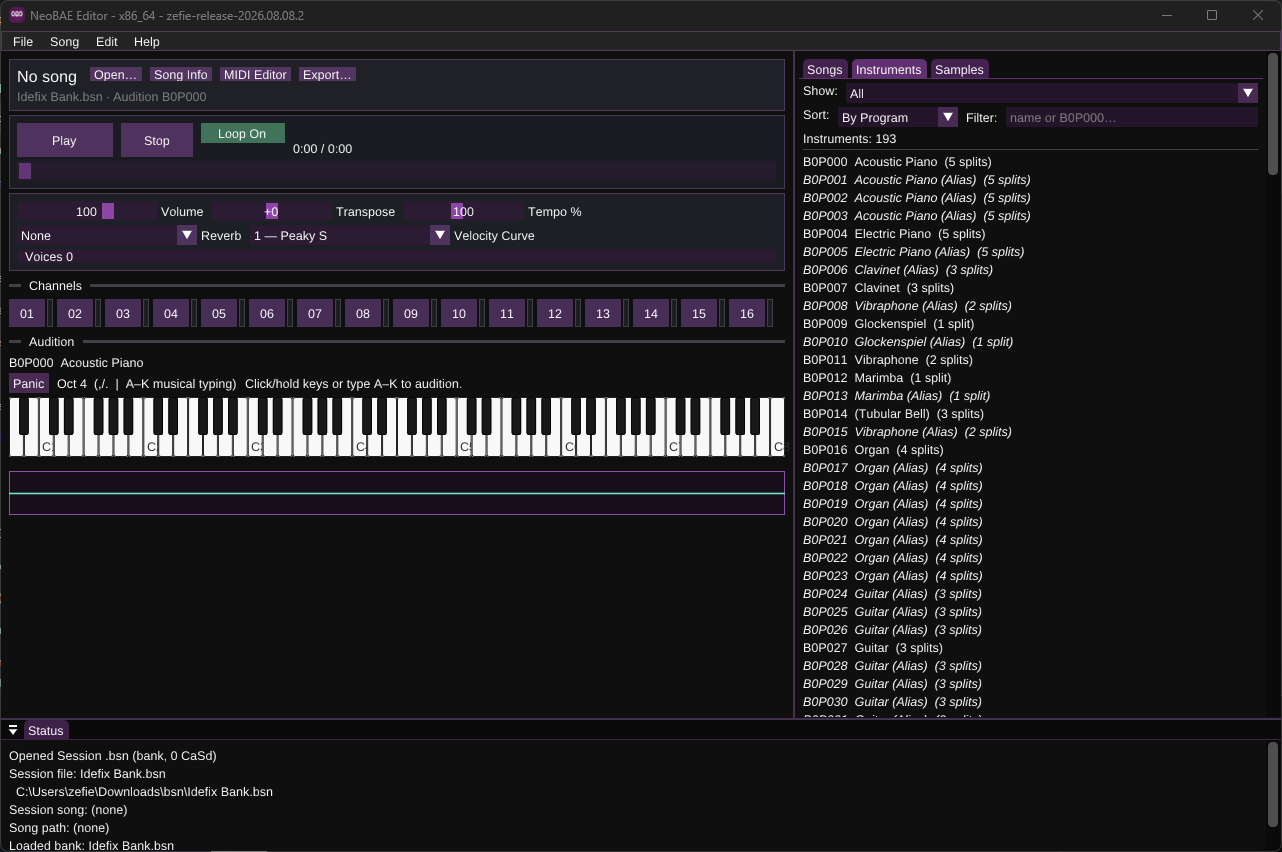
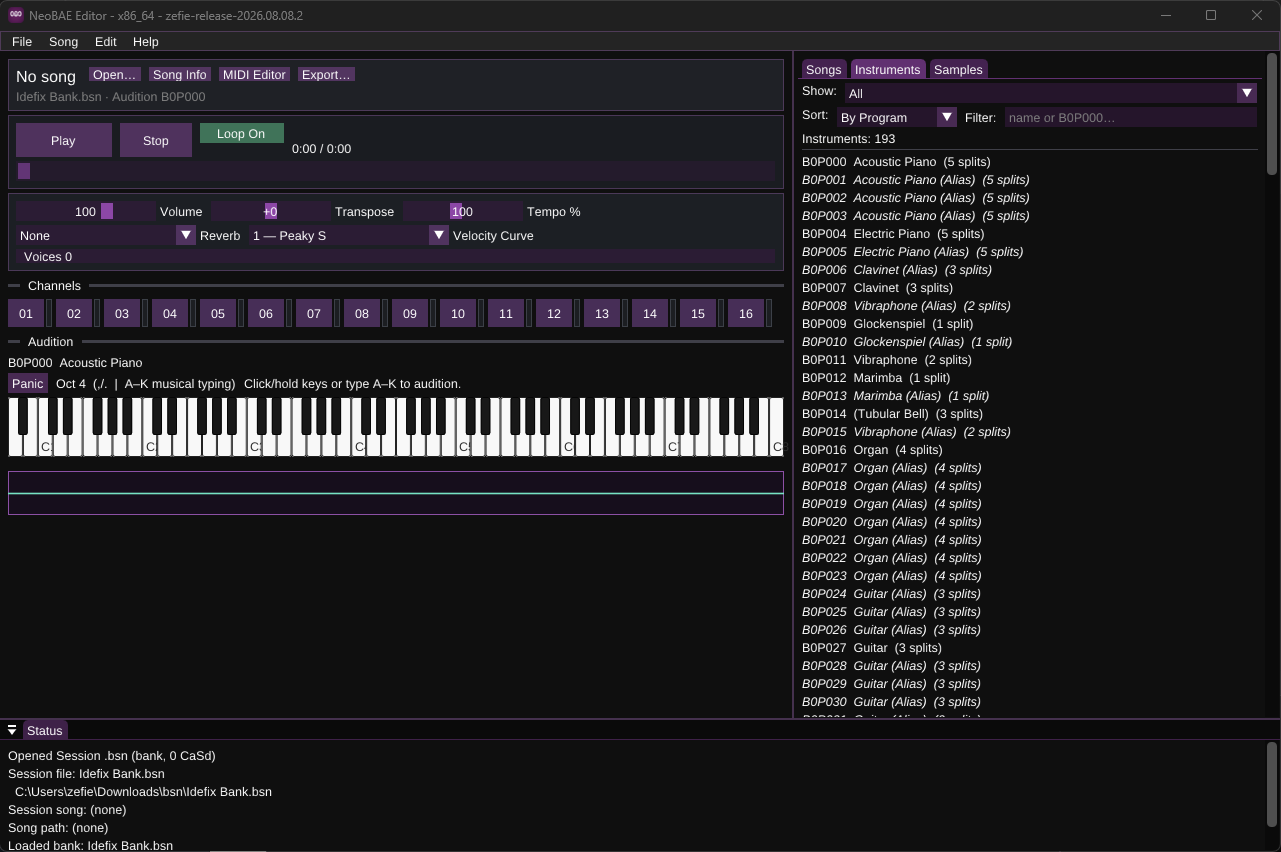
update README

diff --git a/README.md b/README.md
@@ -38,7 +38,7 @@ cmake --build build --parallel $(nproc) --target nbeditor
 
 <img src="docs/zefidi.png" alt="zefidi Media Player" width="700">
 
-**playbae** is the CLI player, offline renderer, and exporter. **zefidi** is the classic SDL GUI player (playlists, channel panel, karaoke, export, BAEScript editor, hardware MIDI). **zefidi2** is a slim Dear ImGui + SDL3 alternative.
+**playbae** is the CLI player, offline renderer, and exporter. **zefidi** is the classic SDL GUI player (playlists, channel panel, karaoke, export, BAEScript editor, hardware MIDI).
 
 With **Native DLS** enabled, both playbae and zefidi play **mobileBAE** content authentically:
 
